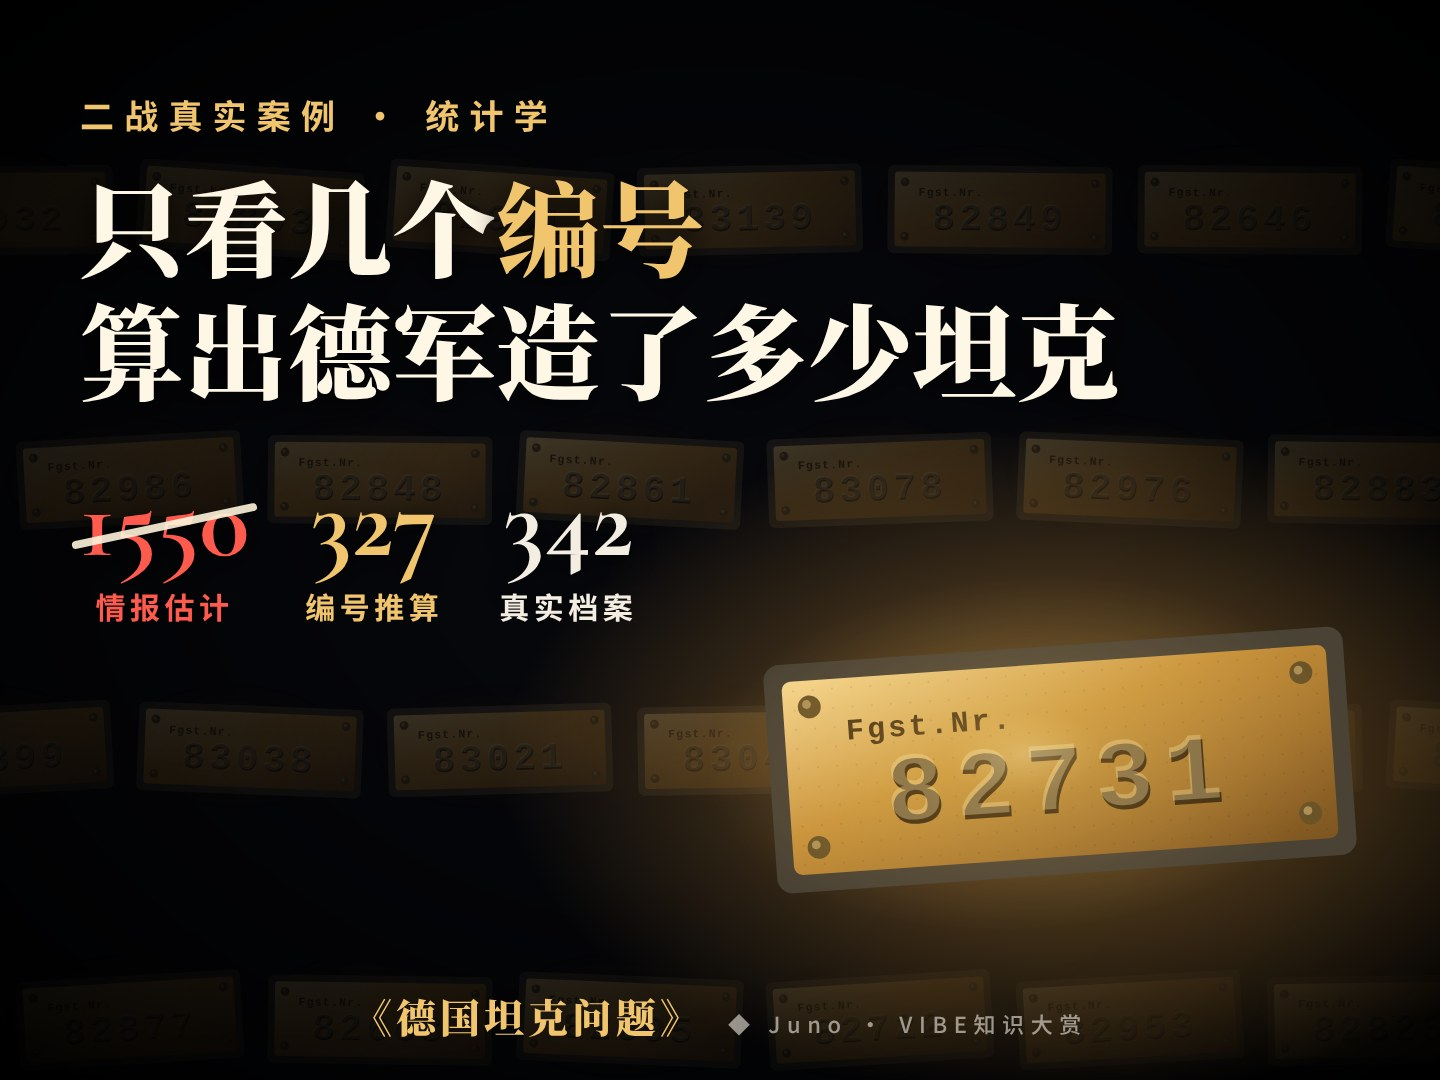
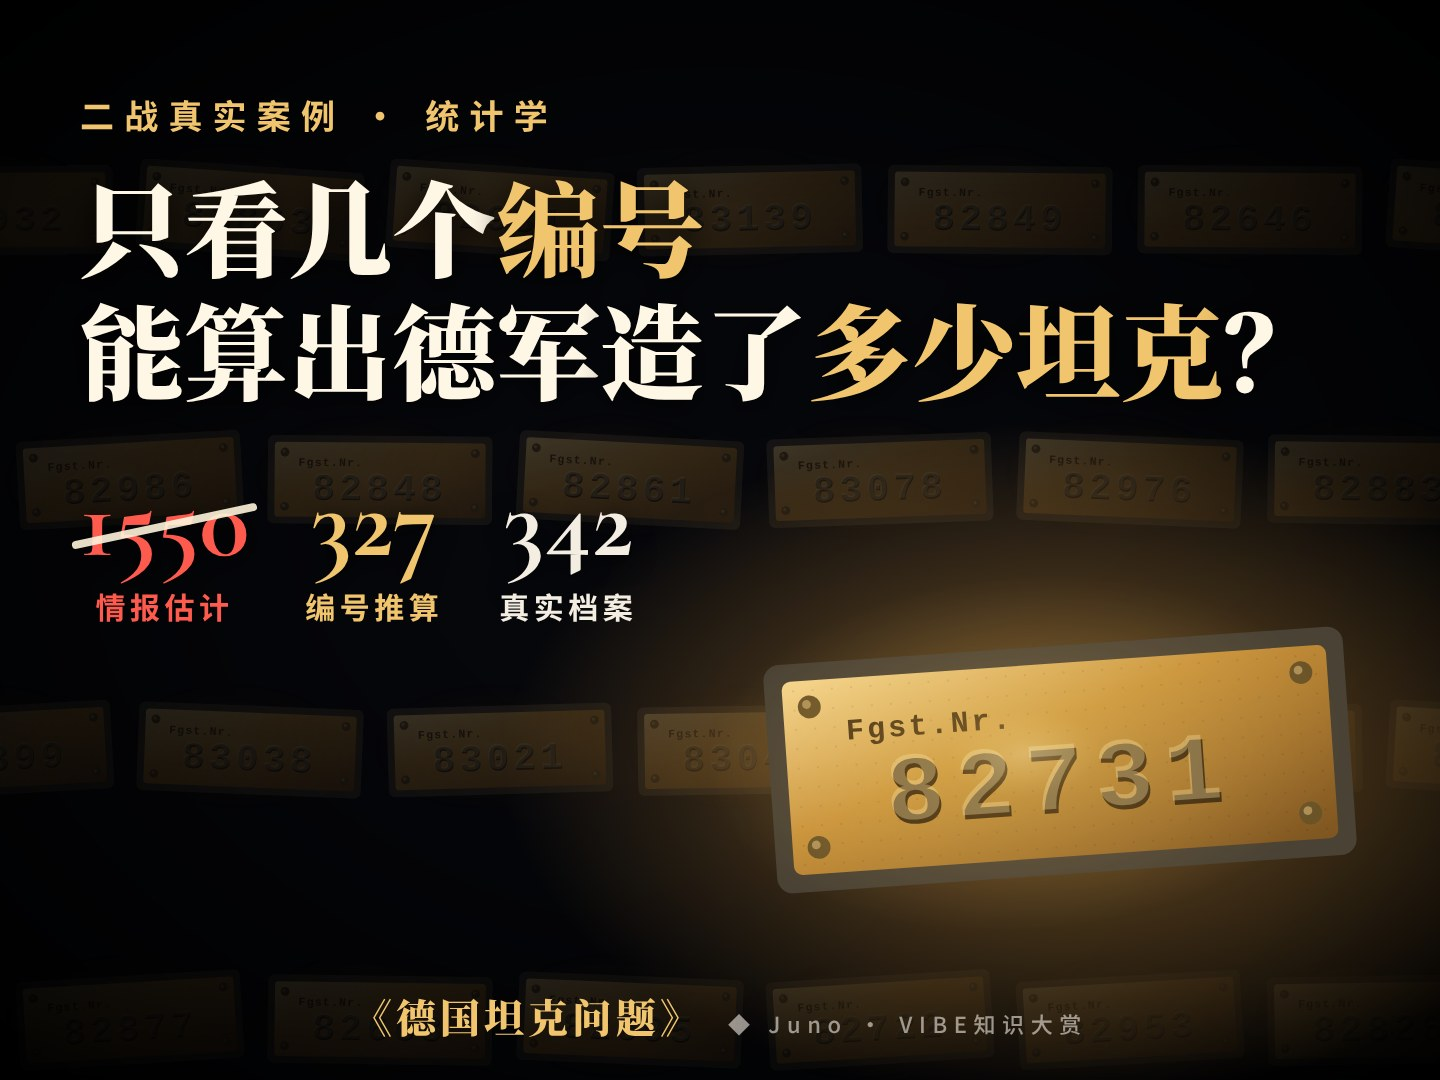
Covers: headline as the series' question format
Claude-Session: https://claude.ai/code/session_01J2ofxWbce8BerT7FfhY1YH

Changed region(s): [[0.0625, 0.275, 0.9062, 0.3972]]

diff --git a/explainer/episodes/tanks/cover.tsx b/explainer/episodes/tanks/cover.tsx
@@ -59,9 +59,9 @@ export const TanksCover: React.FC<{layout: 'wide' | 'tall'}> = ({layout}) => {
 				<div style={{fontFamily: font.serif, fontWeight: 900, fontSize: headSize, lineHeight: 1.18, color: '#fff7e6', marginTop: 24, textShadow: '0 6px 30px rgba(0,0,0,0.9)'}}>
 					只看几个<span style={{color: color.gold}}>编号</span>
 					<br />
-					算出德军造了
+					能算出德军
 					{tall ? <br /> : null}
-					多少坦克
+					造了<span style={{color: color.gold}}>多少坦克</span>？
 				</div>
 			</div>
 			<div style={{position: 'absolute', left: tall ? 0 : 80, right: tall ? 0 : undefined, top: tall ? 1080 : 470, display: 'flex', justifyContent: tall ? 'center' : 'flex-start', gap: tall ? 40 : 56}}>
